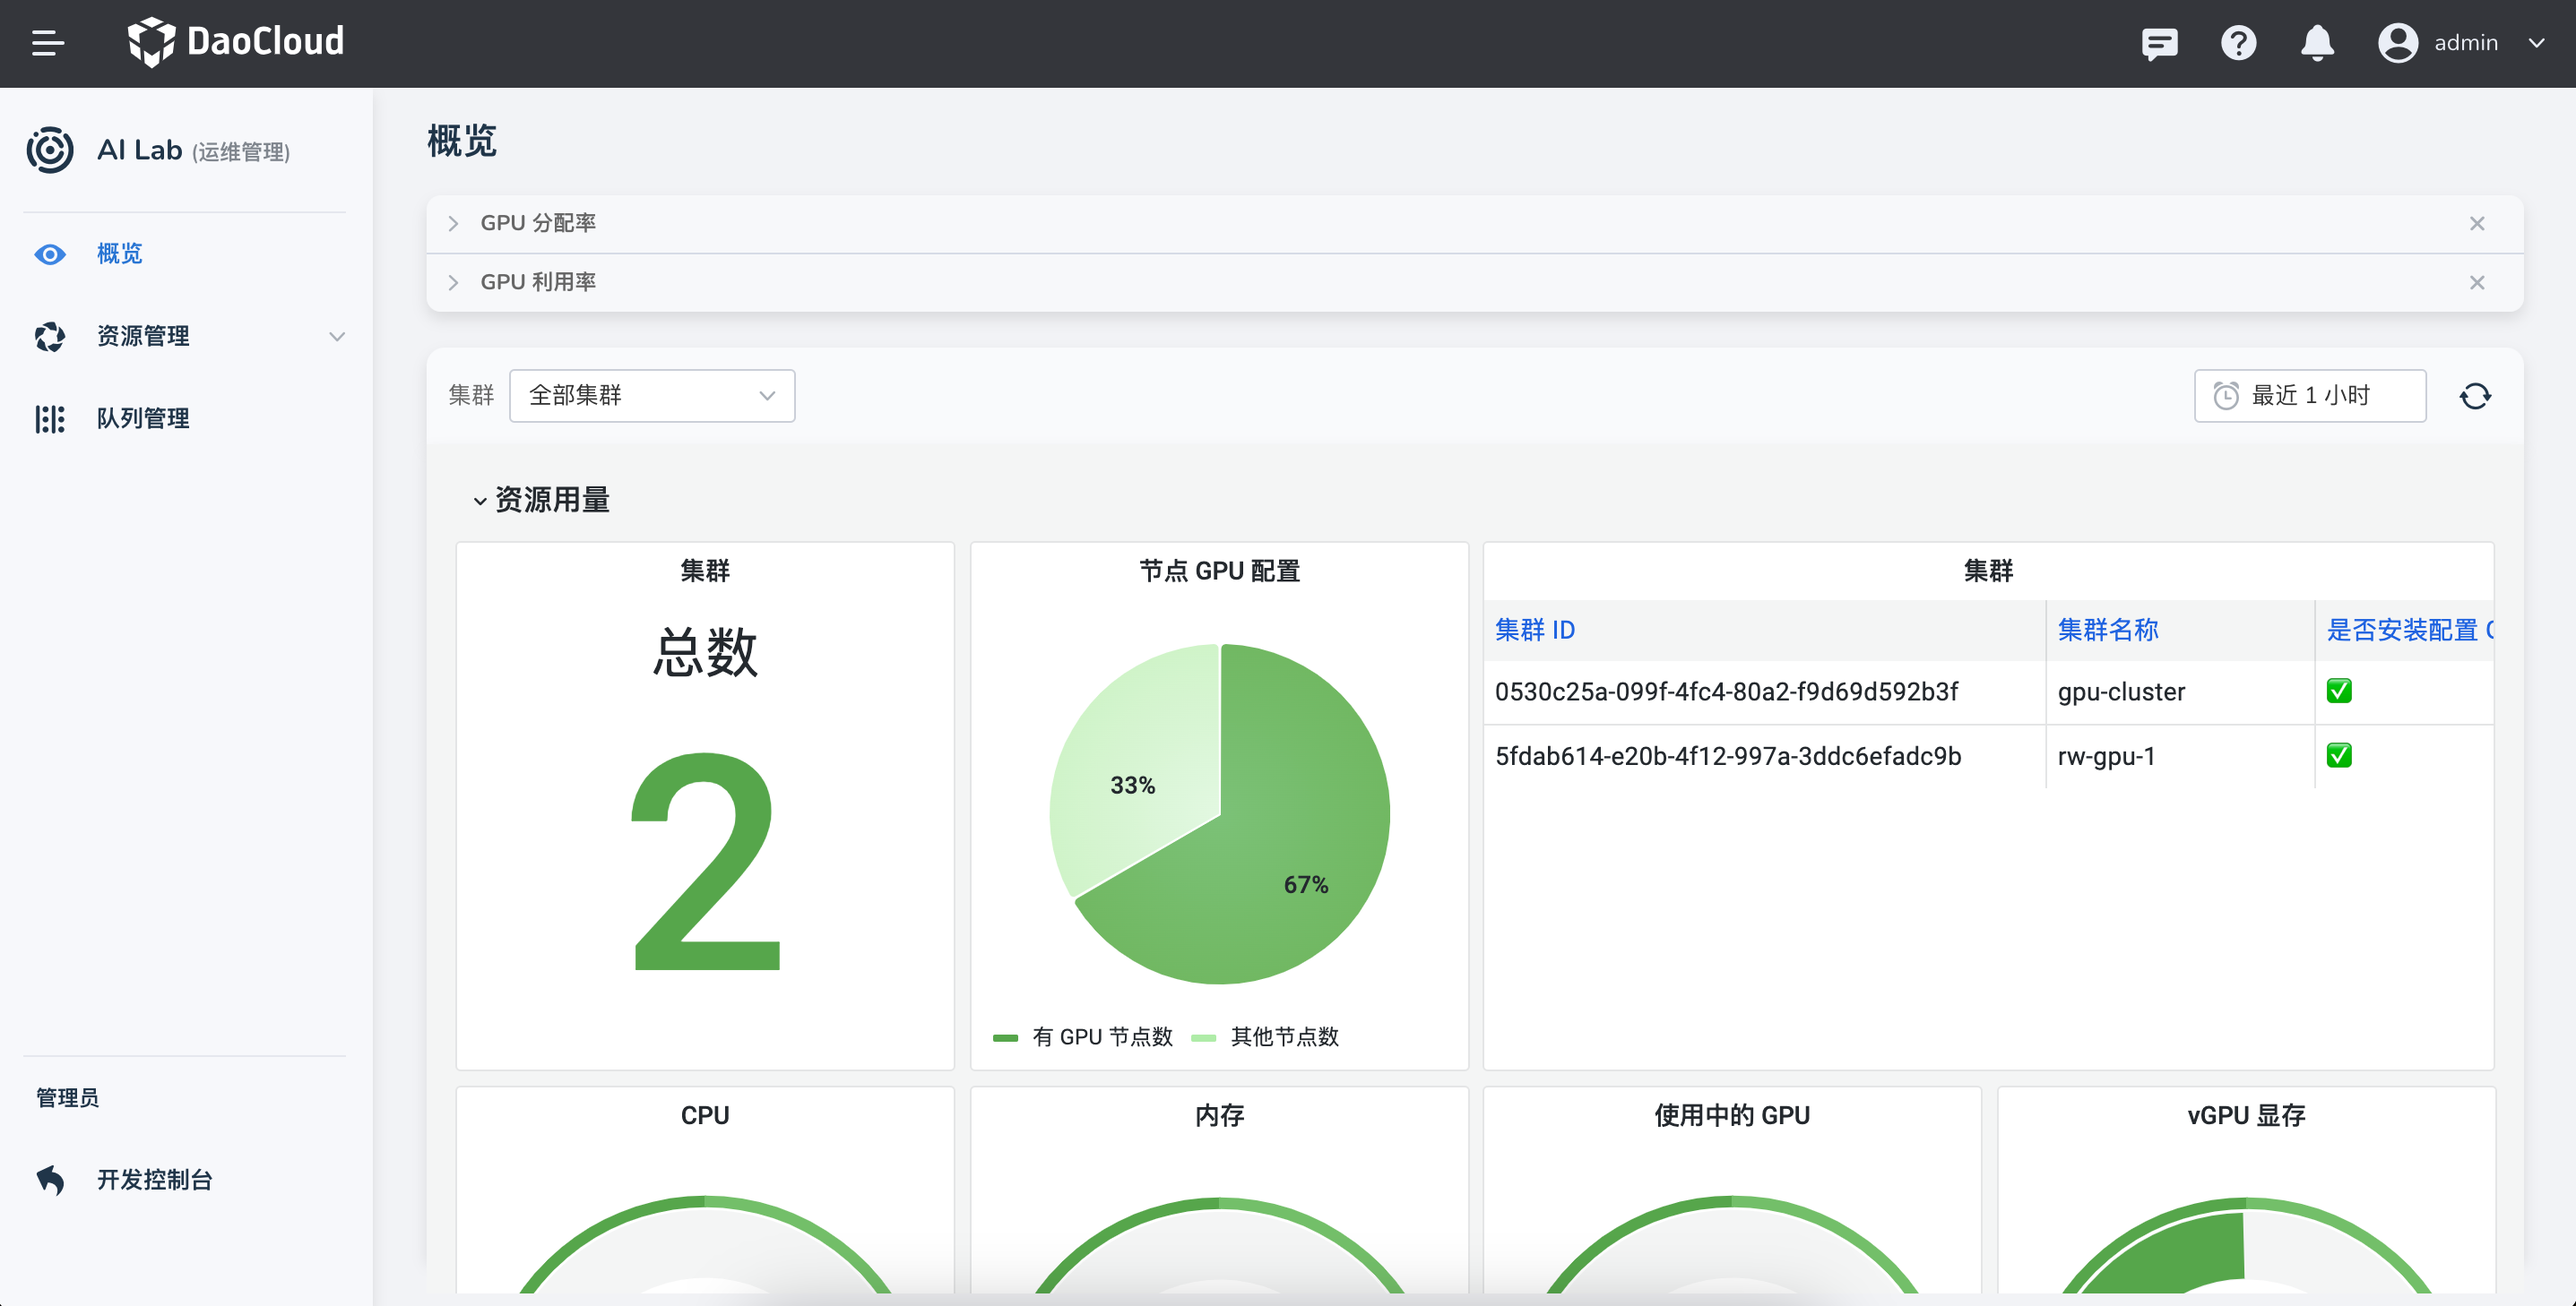
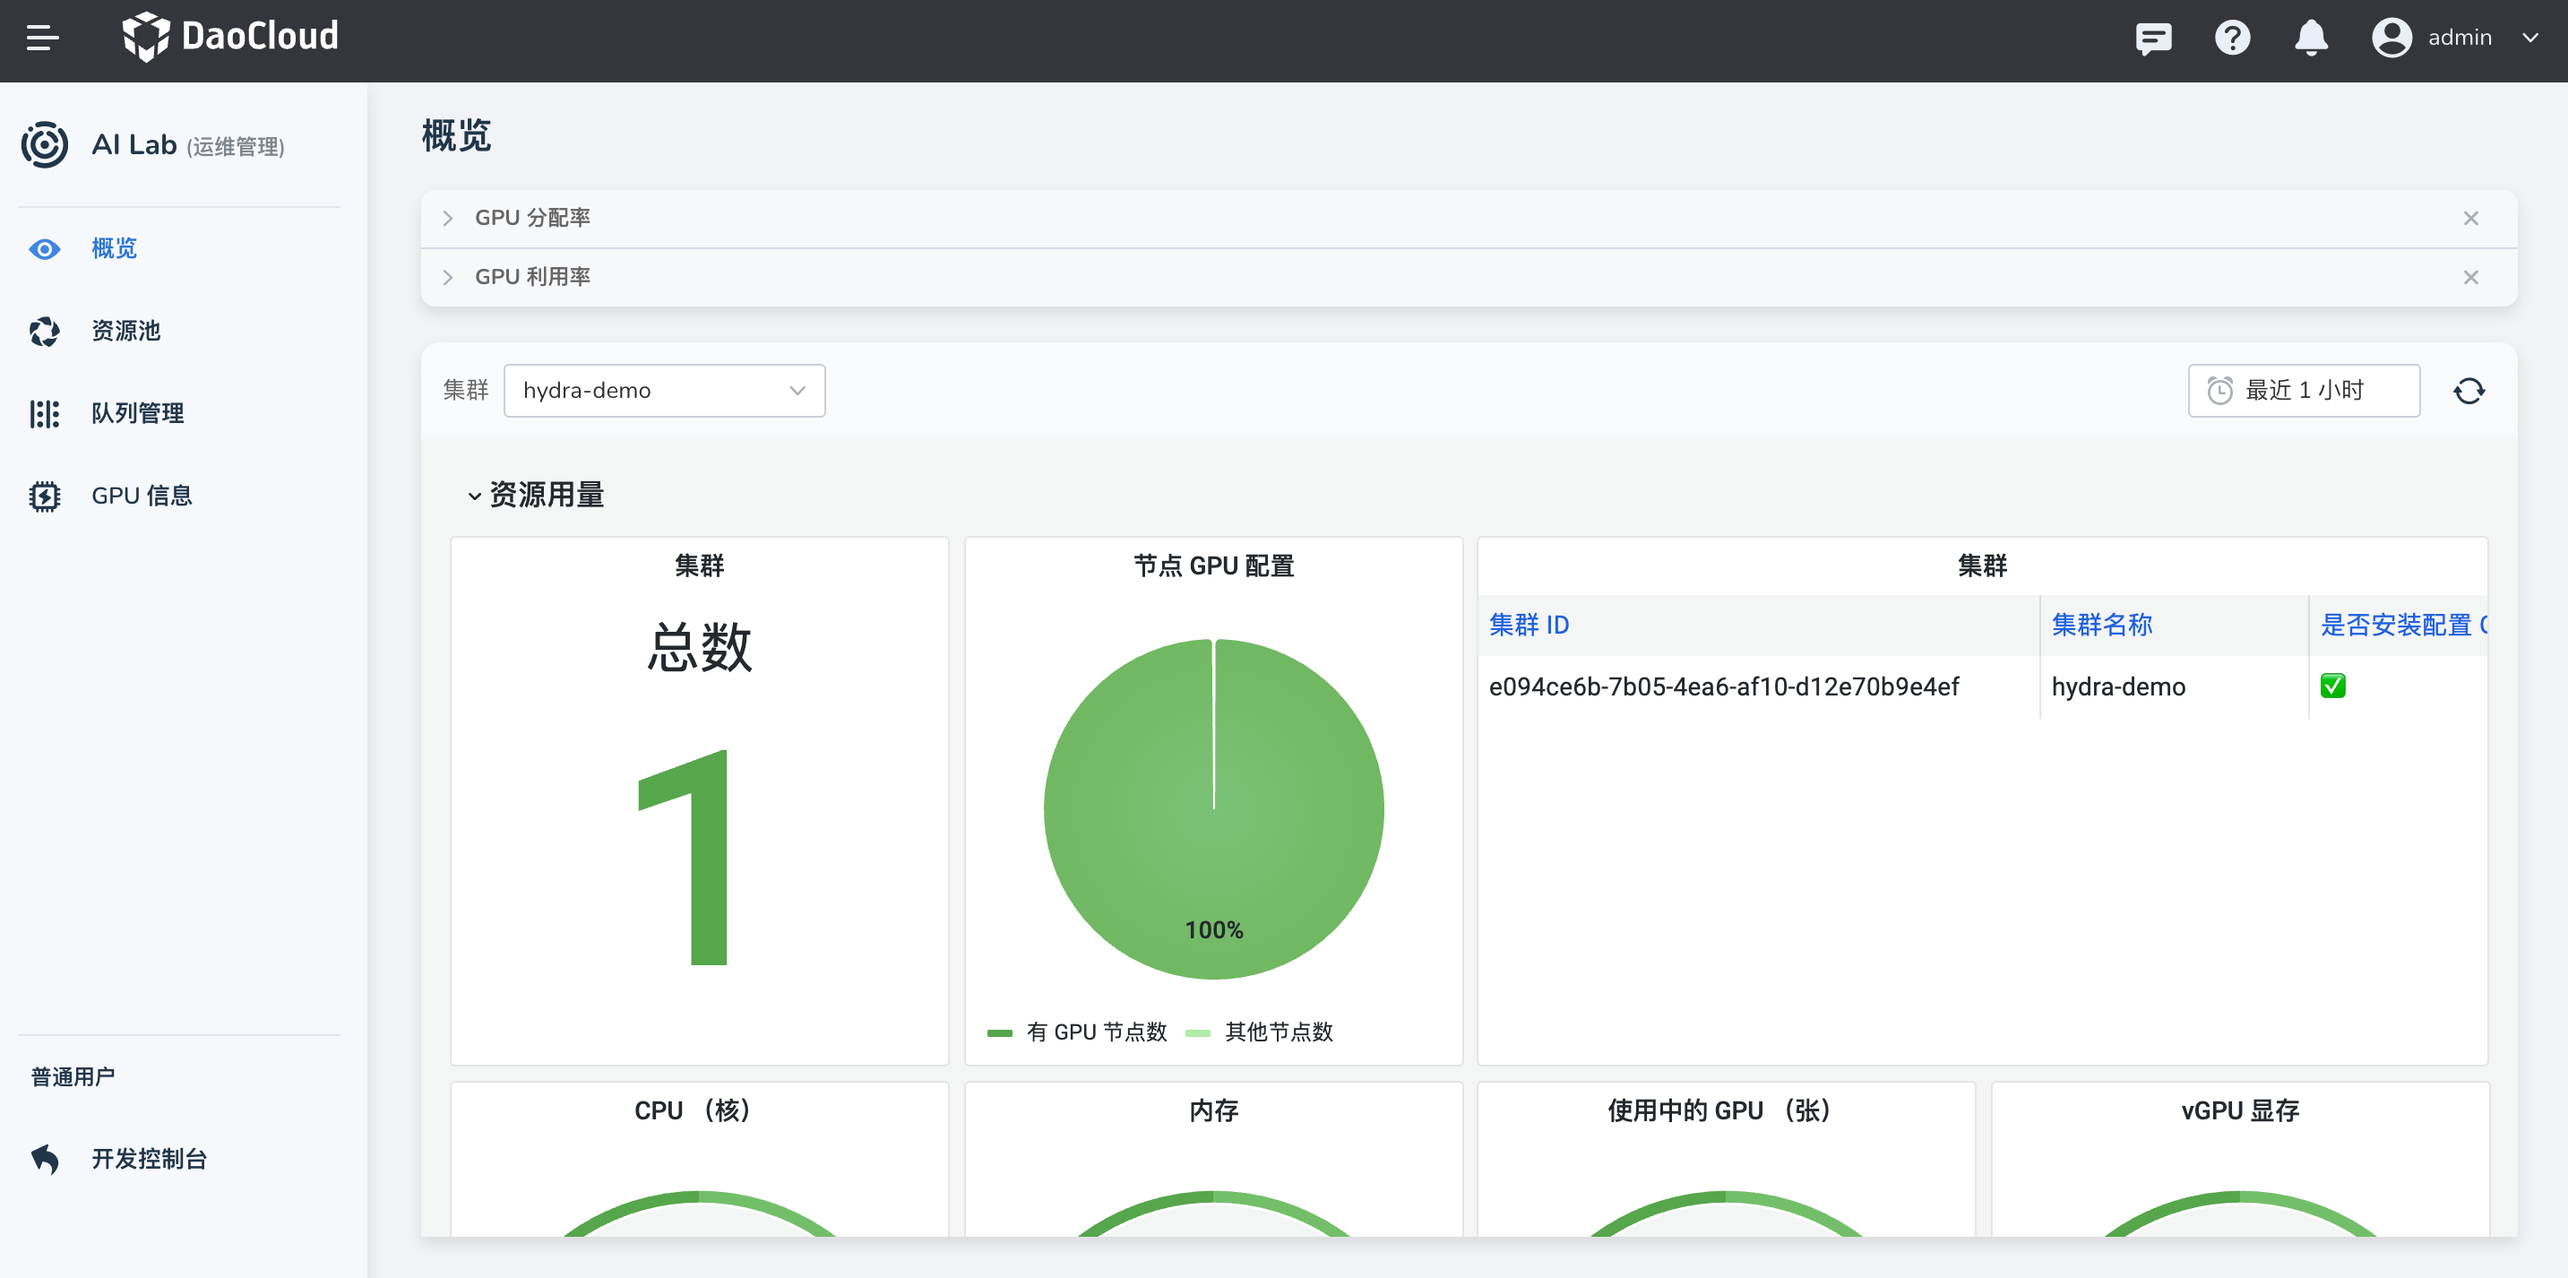
update baize/oam/index.md (#6876)

diff --git a/docs/zh/docs/baize/oam/index.md b/docs/zh/docs/baize/oam/index.md
@@ -5,13 +5,45 @@ hide:
 
 # 运维管理
 
-运维管理是 IT 运维人员日常管理 IT 资源，处理工作的空间。
+运维管理是 IT 运维人员日常监控、管理和优化 IT 资源与工作负载的重要空间。通过运维管理平台，管理员可以直观地掌握集群资源使用情况，监控关键硬件指标，并高效调度任务，从而保证系统稳定性和资源利用率。
 
 ![运维管理概览](../images/oam-overview.png)
 
-在这里可以直观地了解当前集群、节点、CPU、GPU、vGPU 等资源的使用状况。
+为了满足不同运维场景的需求，运维管理模块设计了以下几个核心子页面：
+
+- **概览**  
+  提供集群总体视图，通过大屏展示关键指标，包括节点资源用量、GPU 使用情况、GPU 功率以及 GPU 设备温度等。运维人员可以快速识别集群瓶颈和资源异常，做出及时决策。
+
+- **资源池**  
+  用于定义集群中可用的计算资源对象，包括 CPU、内存和 GPU 等。通过资源池，可以将工作负载与特定节点类型绑定，实现精细化资源分配与管理，从而提高任务调度效率和集群整体性能。
+
+- **队列管理**  
+  用于管理和优化批处理工作负载，通过队列系统对任务进行调度。队列管理可以合理分配资源，平衡高优先级和低优先级任务的执行顺序，从而提高集群任务吞吐量，降低资源空闲率。
+
+- **GPU 信息**  
+  自动化汇总整个平台的 GPU 资源信息，提供详尽的 GPU 设备状态展示。管理员可以查看每块 GPU 的负载统计、功率使用情况、温度及正在运行的任务信息，支持 GPU 资源监控和优化调度。
 
 ## 常见术语
 
-- GPU 分配率：统计当前集群内所有未完成的任务的 GPU 分配情况，统计请求的 GPU（Request）与总资源量（Total）之间的比例。
-- GPU 利用率：统计当前集群中所有运行中的任务的实际资源利用情况，统计实际使用的 GPU（Usage）与总资源量（Total）之间的比例。
+- **GPU 分配率**  
+  表示当前集群内所有未完成任务对 GPU 资源的占用比例。它反映了资源的预占情况，帮助管理员判断资源是否紧张。
+
+- **GPU 利用率**  
+  表示当前集群中所有运行任务的 GPU 实际使用情况。它衡量资源的实际消耗效率，帮助管理员评估任务调度和 GPU 负载分布是否合理。
+
+## 扩展功能与实践建议
+
+1. **实时监控与告警**  
+   配合概览页面，设置 GPU 温度、功率和利用率的阈值告警，可在异常情况下即时通知运维人员，避免硬件损耗和任务失败。
+
+2. **资源池策略优化**  
+   针对不同类型的任务（短作业、长作业、GPU 密集型任务等），合理划分资源池，提高资源复用率，减少任务排队等待时间。
+
+3. **队列调度优化**  
+   结合任务优先级、资源需求和历史运行时间，设计公平或加权调度策略，以提高任务完成率和集群整体吞吐量。
+
+4. **GPU 资源分析**  
+   定期分析 GPU 利用率与分配率数据，识别低效使用的资源，调整任务分配或迁移策略，实现 GPU 使用最大化。
+
+5. **运维报表**  
+   可生成定期报表，包括资源使用趋势、任务完成情况和 GPU 使用效率，为决策提供数据支撑。
